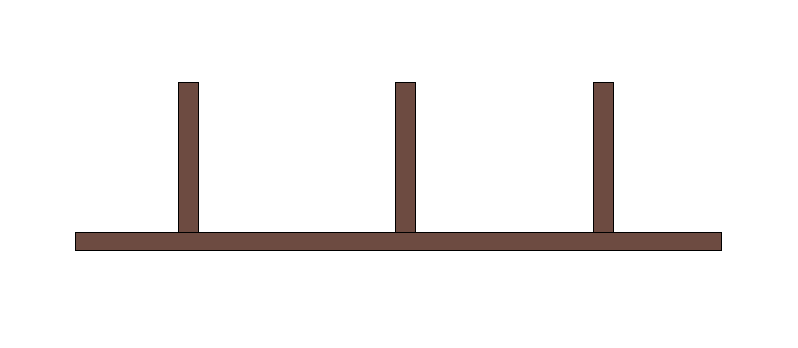
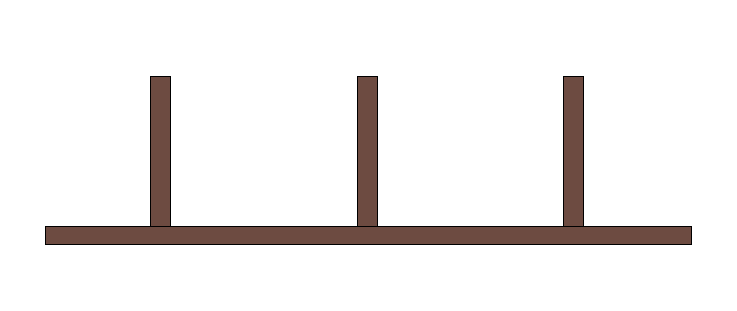
discs can now move to actual towers on screen, updated

Changed region(s): [[0.0624, 0.2315, 0.9362, 0.8103]]

diff --git a/style.css b/style.css
@@ -57,15 +57,15 @@ h1 {
 }
 
 #game-elements {
-    width: 495px;
+    width: 515px;
     margin: 10px auto;
     height: 75px;
-    left: 100px;
-    top: 115px;
+    left: 89px;
+    top: 133px;
     position: absolute;
     z-index: 1;
     display: grid;
-    grid-gap: 60px;
+    grid-gap: 72px;
     grid-template-columns: 125px 125px 125px;
 }
 
